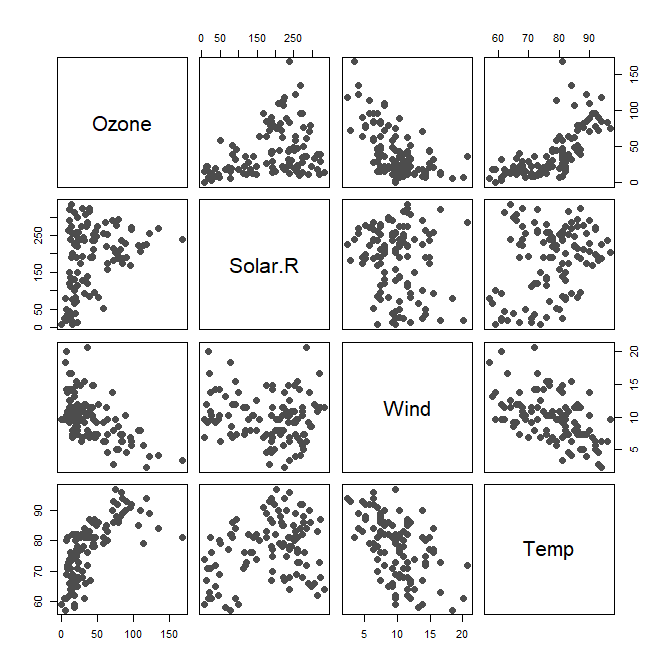
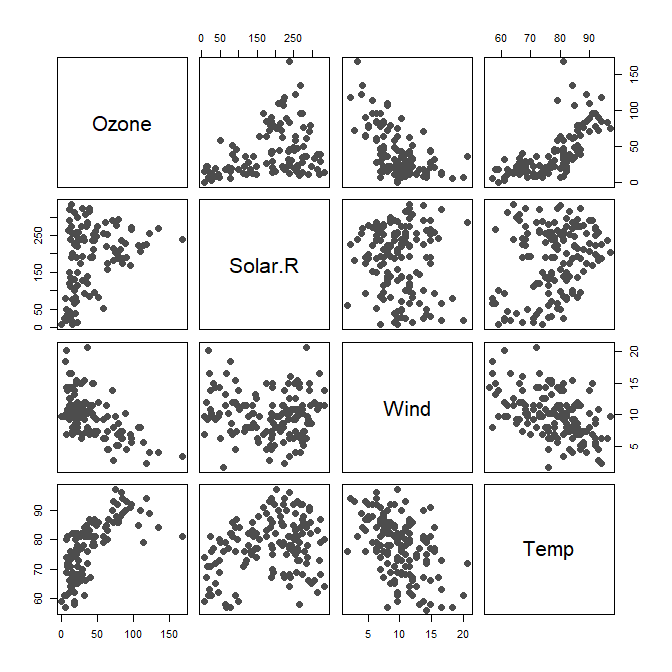
Update for formula-friendly code

diff --git a/README.md b/README.md
@@ -1,7 +1,7 @@
 Robust backfitting
 ================
 Matias Salibian
-2019-06-17
+2020-07-02
 
 ## A robust backfitting algorithm
 
@@ -36,18 +36,13 @@ data.
 ``` r
 library(RBF)
 data(airquality)
-x <- airquality
-x <- x[ complete.cases(x), ]
-x <- x[, c('Ozone', 'Solar.R', 'Wind', 'Temp')]
-y <- as.vector(x$Ozone)
-x <- as.matrix(x[, c('Solar.R', 'Wind', 'Temp')])
 ```
 
-A scatter plot of the
-data
+A scatter plot of the data
 
 ``` r
-pairs(cbind(y,x), labels=c('Ozone', colnames(x)), pch=19, col='gray30', cex=1.5)
+pairs(airquality[, c('Ozone', 'Solar.R', 'Wind', 'Temp')], 
+      pch=19, col='gray30', cex=1.5)
 ```
 
 ![](README_files/figure-gfm/scatter-1.png)<!-- -->
@@ -62,11 +57,12 @@ bandw <- c(136.728453,   8.894283,   4.764985)
 
 Now we use the robust backfitting algorithm to fit an additive model
 using Tukey’s bisquare loss (the default tuning constant for this loss
-function is 4.685)
+function is 4.685). We remove cases with missing entries.
 
 ``` r
-fit.full <- backf.rob(Xp=x, yp=y, windows=bandw, epsilon=1e-6, 
-                     degree=1, type='Tukey')
+ccs <- complete.cases(airquality)
+fit.full <- backf.rob(Ozone ~ Solar.R + Wind + Temp, data=airquality,
+                subset=ccs, windows=bandw, degree=1, type='Tukey')
 ```
 
 We display the 3 fits (one per additive component), being careful with
@@ -75,12 +71,14 @@ the axis limits
 ``` r
 lim.cl <- lim.rob <- matrix(0, 2, 3)
 par(mfrow=c(2,2))
+x0 <- fit.full$Xp
 for(j in 1:3) {
-  re <- y - fit.full$alpha - rowSums(fit.full$g.matrix[,-j])
+  re <- fit.full$y - fit.full$alpha - rowSums(fit.full$g.matrix[,-j])
   lim.rob[,j] <- c(min(re), max(re))
-  plot(re ~ x[,j], type='p', pch=19, col='gray30', xlab=colnames(x)[j], ylab='', cex=1.5)
-  oo <- order(x[,j])
-  lines(x[oo,j], fit.full$g.matrix[oo,j], lwd=5, col='blue')
+  plot(re ~ x0[,j], type='p', pch=19, col='gray30', 
+       xlab=colnames(x0)[j], ylab='', cex=1.5)
+  oo <- order(x0[,j])
+  lines(x0[oo,j], fit.full$g.matrix[oo,j], lwd=5, col='blue')
 }
 ```
 
@@ -91,15 +89,18 @@ bandwidths chosen via leave-one-out CV
 
 ``` r
 bandw.cl <- c(91.15, 10.67, 9.53)
-fit.cl <- backf.cl(Xp=x, yp=y, windows=bandw.cl, epsilon=1e-6,
-                   degree=1)
+fit.cl <- backf.cl(Ozone ~ Solar.R + Wind + Temp, data=airquality,
+                subset=ccs, windows=bandw.cl, epsilon=1e-6, 
+                degree=1)
 par(mfrow=c(2,2))
+x0 <- fit.cl$Xp
 for(j in 1:3) {
-  re <- y - fit.cl$alpha - rowSums(fit.cl$g.matrix[,-j])
+  re <- fit.cl$y - fit.cl$alpha - rowSums(fit.cl$g.matrix[,-j])
   lim.cl[,j] <- c(min(re), max(re))
-  plot(re ~ x[,j], type='p', pch=19, col='gray30', xlab=colnames(x)[j], ylab='', cex=1.5)
-  oo <- order(x[,j])
-  lines(x[oo,j], fit.cl$g.matrix[oo,j], lwd=5, col='magenta')
+  plot(re ~ x0[,j], type='p', pch=19, col='gray30', 
+       xlab=colnames(x0)[j], ylab='', cex=1.5)
+  oo <- order(x0[,j])
+  lines(x0[oo,j], fit.cl$g.matrix[oo,j], lwd=5, col='magenta')
 }
 ```
 
@@ -116,12 +117,12 @@ for(j in 1:3) {
 }
 par(mfrow=c(2,2))
 for(j in 1:3) {
-  re <- y - fit.cl$alpha - rowSums(fit.cl$g.matrix[,-j])
-  plot(re ~ x[,j], type='p', pch=19, col='gray30', xlab=colnames(x)[j], ylab='', cex=1.5,
-      ylim=lims[,j])
-  oo <- order(x[,j])
-  lines(x[oo,j], fit.cl$g.matrix[oo,j], lwd=5, col='magenta')
-  lines(x[oo,j], fit.full$g.matrix[oo,j], lwd=5, col='blue')
+  re <- fit.cl$y - fit.cl$alpha - rowSums(fit.cl$g.matrix[,-j])
+  plot(re ~ x0[,j], type='p', pch=19, col='gray30', 
+       xlab=colnames(x0)[j], ylab='', cex=1.5, ylim=lims[,j])
+  oo <- order(x0[,j])
+  lines(x0[oo,j], fit.cl$g.matrix[oo,j], lwd=5, col='magenta')
+  lines(x0[oo,j], fit.full$g.matrix[oo,j], lwd=5, col='blue')
 }
 ```
 
@@ -131,7 +132,7 @@ We look at the residuals from the robust fit to identify potential
 outiers
 
 ``` r
-re.ro <- y - fit.full$alpha - rowSums(fit.full$g.matrix)
+re.ro <- fit.full$y - fit.full$alpha - rowSums(fit.full$g.matrix)
 ou.ro <- boxplot(re.ro, plot=FALSE)$out
 n <- length(re.ro)
 ou.ro <- (1:n)[ re.ro %in% ou.ro ]
@@ -144,11 +145,13 @@ points(rep(1, length(ou.ro)), re.ro[ou.ro], pch=19, cex=2, col='red')
 We highlight these suspicious observations on the scatter plot
 
 ``` r
-cs <- rep('gray30', nrow(x))
+aircomplete <- airquality[ccs, ]
+cs <- rep('gray30', nrow(aircomplete))
 cs[ou.ro] <- 'red'
-os <- 1:nrow(x)
+os <- 1:nrow(aircomplete)
 os2 <- c(os[-ou.ro], os[ou.ro])
-pairs(cbind(y,x)[os2,], labels=c('Ozone', colnames(x)), pch=19, col=cs[os2], cex=1.5)
+pairs(aircomplete[os2, c('Ozone', 'Solar.R', 'Wind', 'Temp')], 
+      pch=19, col=cs[os2], cex=1.5)
 ```
 
 ![](README_files/figure-gfm/showouts-1.png)<!-- -->
@@ -158,38 +161,38 @@ and on the partial residuals plots
 ``` r
 par(mfrow=c(2,2))
 for(j in 1:3) {
-  re <- y - fit.full$alpha - rowSums(fit.full$g.matrix[,-j])
-  plot(re ~ x[,j], type='p', pch=19, col='gray30', xlab=colnames(x)[j], ylab='', cex=1.5,
-       ylim=lims[,j])
-  points(re[ou.ro] ~ x[ou.ro,j], pch=19, col='red', cex=1.5)
-  oo <- order(x[,j])
-  lines(x[oo,j], fit.cl$g.matrix[oo,j], lwd=5, col='magenta')
-  lines(x[oo,j], fit.full$g.matrix[oo,j], lwd=5, col='blue')
+  re <- fit.full$y - fit.full$alpha - rowSums(fit.full$g.matrix[,-j])
+  plot(re ~ x0[,j], type='p', pch=19, col='gray30', 
+       xlab=colnames(x0)[j], ylab='', cex=1.5, ylim=lims[,j])
+  points(re[ou.ro] ~ x0[ou.ro,j], pch=19, col='red', cex=1.5)
+  oo <- order(x0[,j])
+  lines(x0[oo,j], fit.cl$g.matrix[oo,j], lwd=5, col='magenta')
+  lines(x0[oo,j], fit.full$g.matrix[oo,j], lwd=5, col='blue')
 }
 ```
 
 ![](README_files/figure-gfm/showouts2-1.png)<!-- -->
 
 If we use the classical backfitting algorithm on the data without the
-potential outliers, we obtain almost identical results
+potential outliers, we obtain almost identical results:
 
 ``` r
 # Run the classical backfitting algorithm without outliers
-x2 <- x[-ou.ro,]
-y2 <- y[-ou.ro]
+airclean <- aircomplete[-ou.ro, ]
 bandw.cl2 <- c(138.87, 10.52, 4.85)
-fit.cl2 <- backf.cl(Xp=x2, yp=y2, windows=bandw.cl2, epsilon=1e-6,
-                   degree=1)
+fit.cl2 <- backf.cl(Ozone ~ Solar.R + Wind + Temp, data=airclean,
+                   windows=bandw.cl2, epsilon=1e-6, degree=1)
+x02 <- fit.cl2$Xp
 par(mfrow=c(2,2))
 for(j in 1:3) {
-  re <- y - fit.full$alpha - rowSums(fit.full$g.matrix[,-j])
-  plot(re ~ x[,j], type='p', pch=19, col='gray30', xlab=colnames(x)[j], ylab='', cex=1.5,
-       ylim=lims[,j])
-  points(re[ou.ro] ~ x[ou.ro,j], pch=19, col='red', cex=1.5)
-  oo <- order(x2[,j])
-  lines(x2[oo,j], fit.cl2$g.matrix[oo,j], lwd=5, col='magenta')
-  oo <- order(x[,j])
-  lines(x[oo,j], fit.full$g.matrix[oo,j], lwd=5, col='blue')
+  re <- fit.full$y - fit.full$alpha - rowSums(fit.full$g.matrix[,-j])
+  plot(re ~ x0[,j], type='p', pch=19, col='gray30', 
+       xlab=colnames(x0)[j], ylab='', cex=1.5, ylim=lims[,j])
+  points(re[ou.ro] ~ x0[ou.ro,j], pch=19, col='red', cex=1.5)
+  oo <- order(x02[,j])
+  lines(x02[oo,j], fit.cl2$g.matrix[oo,j], lwd=5, col='magenta')
+  oo <- order(x0[,j])
+  lines(x0[oo,j], fit.full$g.matrix[oo,j], lwd=5, col='blue')
 }
 ```
 
